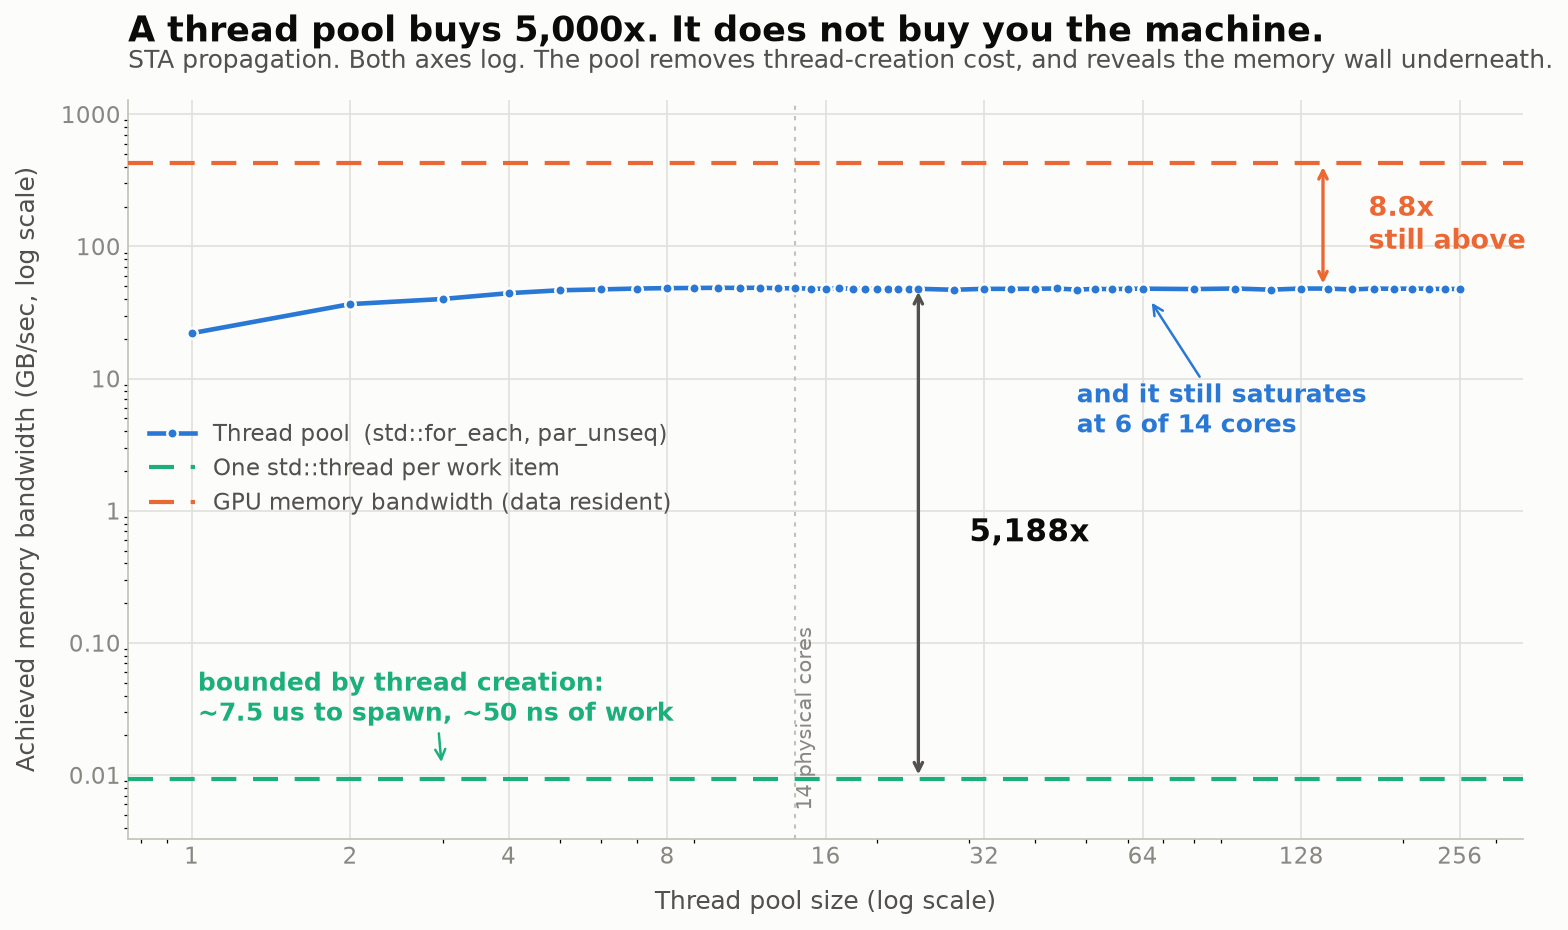
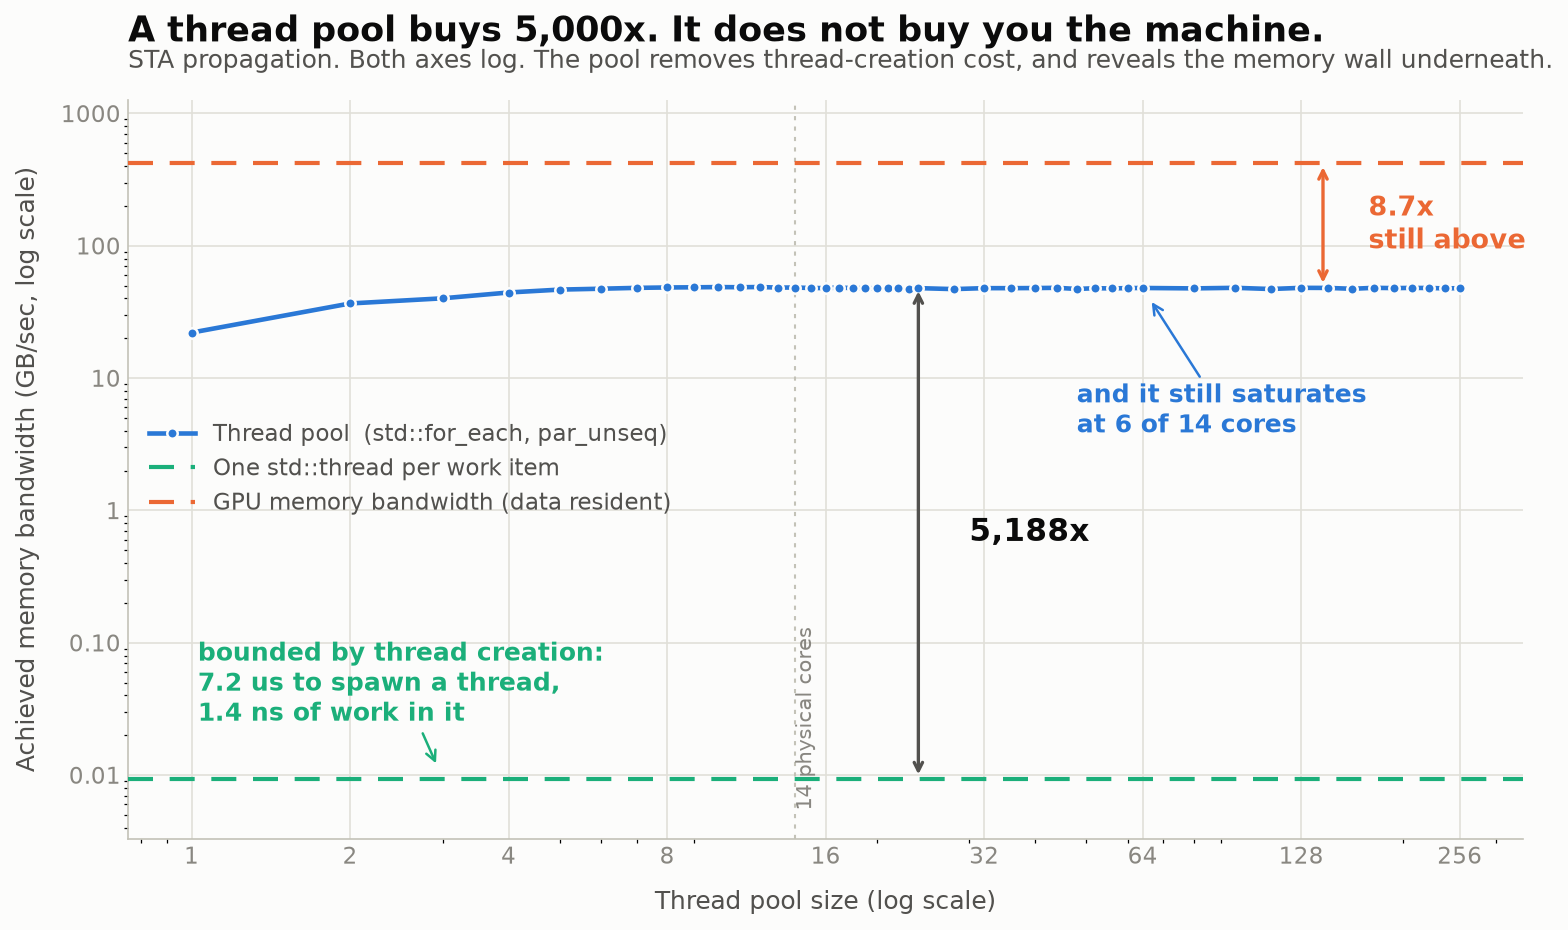
Correct the thread-creation overhead ratio: 5,200:1, not 150:1
The figure 2 annotation claimed "~7.5 us to spawn, ~50 ns of work".
The spawn figure was right but the 50 ns was a guess, and it was about
35x too high, which understated the overhead by the same factor.

Measured, from data/sta_cpu.csv:
  thread-per-node    7,243 ns per node   <- this IS the spawn cost
  pool, one thread       3.08 ns per node (streaming, one core)
  pool, all cores        1.39 ns per node (aggregate)

So the ratio is 7,243 : 1.39 = 5,195 : 1 -- which is exactly the 5,188x
gap already drawn on the chart. The annotation and the arrow are the
same number, which is a much better slide than two unrelated figures.

Also records why the line is flat: the loop that spawns threads is
serial, so throughput is pinned at 1 / 7.2 us regardless of core count.
More hardware cannot move it.

Claude-Session: https://claude.ai/code/session_01M43UAssLWb3wFebvbjxnoM

diff --git a/plot.py b/plot.py
@@ -221,7 +221,7 @@ def fig_naive_vs_pool(theme, rows, gpu_bw=None):
                   f"{gpu_bw / peak:.1f}x\nstill above", color=t["gpu"], dx=1.22,
                   fontsize=13)
 
-    ax.annotate(f"bounded by thread creation:\n~7.5 us to spawn, ~50 ns of work",
+    ax.annotate("bounded by thread creation:\n7.2 us to spawn a thread,\n1.4 ns of work in it",
                 xy=(xs[2], tpi), xytext=(0.05, 0.16), textcoords="axes fraction",
                 color=t["naive"], fontsize=12, fontweight="bold", ha="left",
                 arrowprops=dict(arrowstyle="->", color=t["naive"], linewidth=1.2, shrinkA=0,

diff --git a/SECTION1_SCRIPT.md b/SECTION1_SCRIPT.md
@@ -100,7 +100,7 @@ paraphrase.
 
 **Bullets**
 - One `std::thread` per node: **0.009 GB/s**
-- ~7.5 µs to spawn a thread, ~50 ns of actual work — **150 : 1**
+- **7.2 µs** to spawn a thread, **1.4 ns** of work inside it — **5,200 : 1**
 - Thread pool: 48.9 GB/s — a **5,188×** improvement
 - Same ceiling underneath. Still 6 of 14 cores.
 
@@ -113,10 +113,14 @@ paraphrase.
 >
 > [PAUSE]
 >
-> The reason is on the slide. Creating a thread costs about seven and a half
-> microseconds. The work inside it takes about fifty nanoseconds. You're paying a
-> hundred and fifty to one overhead. This benchmark isn't measuring timing
-> analysis at all — it's measuring the operating system.
+> The reason is on the slide. Creating a thread costs about seven microseconds.
+> The work inside it takes about one and a half nanoseconds. That's a ratio of
+> five thousand to one. This benchmark isn't measuring timing analysis at all —
+> it's measuring the operating system.
+>
+> And notice the line is flat. It would stay flat on a hundred cores, because the
+> loop that spawns the threads is serial — you're limited by the one thread doing
+> the spawning, not by the machine.
 >
 > So we move to a thread pool, and we get **five thousand times** faster.
 >

diff --git a/SPEAKER_NOTES.md b/SPEAKER_NOTES.md
@@ -63,8 +63,9 @@ This is act 1 meeting act 2. Both axes are log, because the gap is four decades.
 - The orange dashed line is one `std::thread` per work item: **0.009 GB/s**. Flat,
   and it would stay flat however many you spawn — you are rate-limited by the
   thread you're spawning *from*.
-- Why: a `clone()` costs about 7.5 µs. The work is about 50 ns. You are measuring
-  the operating system, not timing analysis. **150:1 overhead.**
+- Why: a `clone()` costs about 7.2 µs. The work inside is about 1.4 ns. You are
+  measuring the operating system, not timing analysis. **5,200:1 overhead** — and
+  that ratio is exactly the gap drawn on the chart.
 - The blue curve is the same kernel through `std::for_each(par_unseq)`. 5,000×
   better — and then it stops at 6 of your 14 cores.
 - The move that matters: *"we deleted the obvious overhead and got five thousand

diff --git a/README.md b/README.md
@@ -20,7 +20,7 @@ with `./run_all.sh && python3 plot.py`.
 
 | act | approach | result | what's actually limiting it |
 |---|---|---:|---|
-| 1 | one `std::thread` per work item | 0.009 GB/s | thread **creation** (~7.5 µs each vs ~50 ns of work) |
+| 1 | one `std::thread` per work item | 0.009 GB/s | thread **creation** — 7.2 µs to spawn vs 1.4 ns of work, a 5,200:1 ratio |
 | 2 | thread pool / `std::for_each(par_unseq)` | 48.9 GB/s | **memory bandwidth** — saturates at 5–6 of 14 cores |
 | 3 | GPU, data resident | 429.7 GB/s | bandwidth again, but 8.8× more of it |
 | 3b | GPU, naive copy-in/copy-out | 11.9 GB/s | **PCIe** — 91% of the time is H2D |
